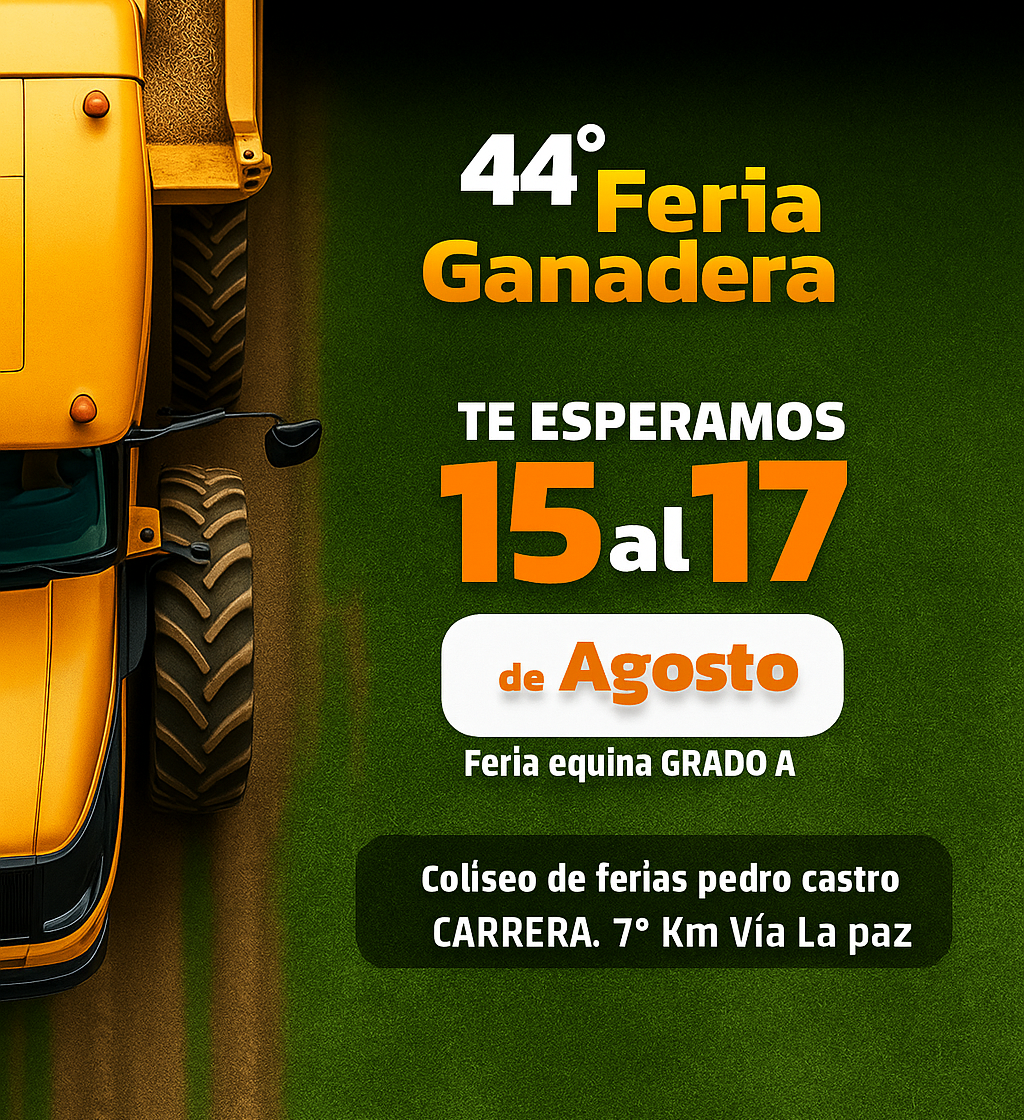
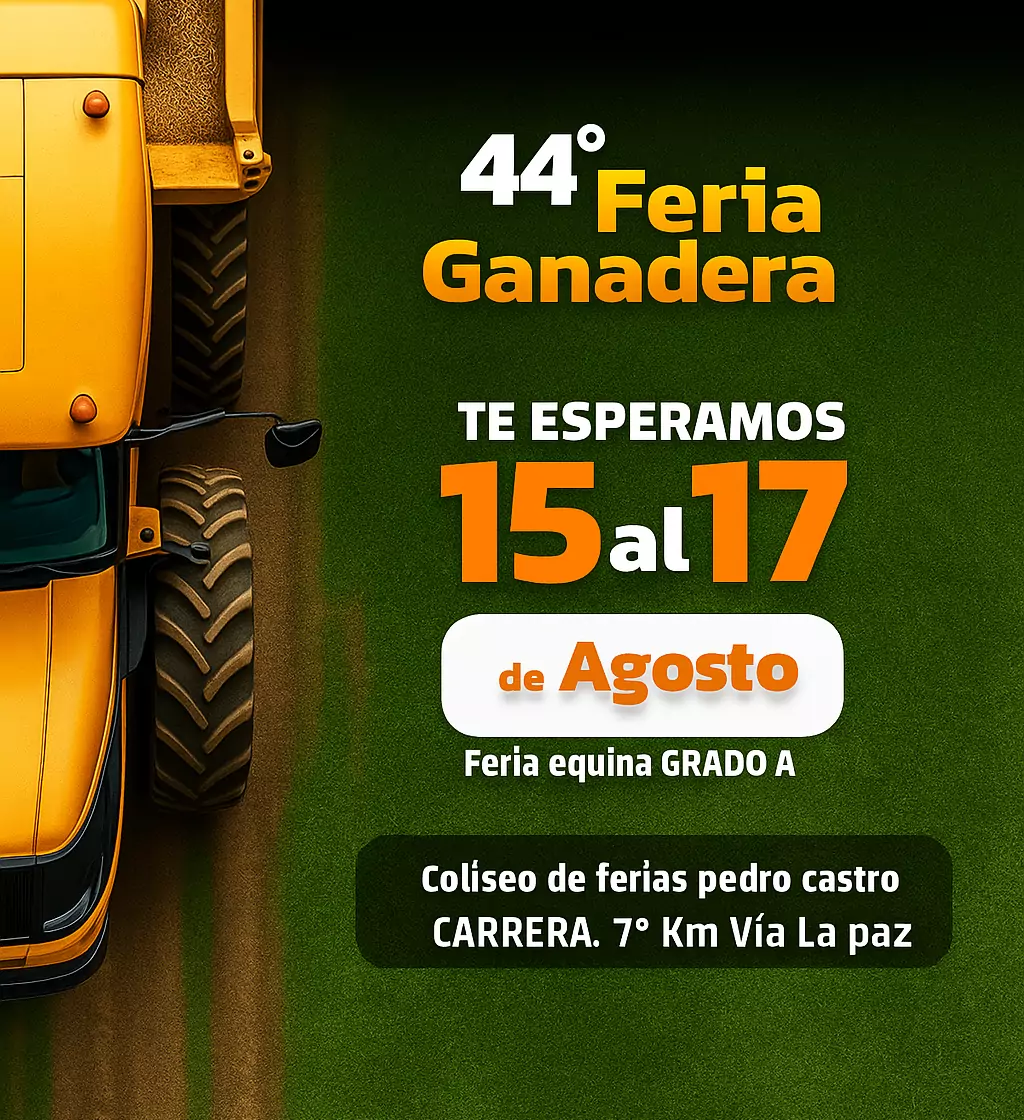
mejor peso de imagenes

diff --git a/src/componentes/Sesion4.jsx b/src/componentes/Sesion4.jsx
@@ -3,11 +3,10 @@ import CardSesion3 from '../componentes/CardSesion3'
 // Servicios
 import ser1 from "../IMGS/galeria1.webp"
 import ser2 from "../IMGS/subasta.webp"
-import ser3 from "../IMGS/instala.webp"
+import ser3 from "../IMGS/galeria2.webp"
 import ser4 from "../IMGS/servicio-4.webp"
 import ser5 from "../IMGS/parquiadero.webp"
 import tractor from "../IMGS/tarctor.webp"
-import tractor2 from "../IMGS/tractor-verde.webp"
 
 const Sesion4 = () => {
   return (
